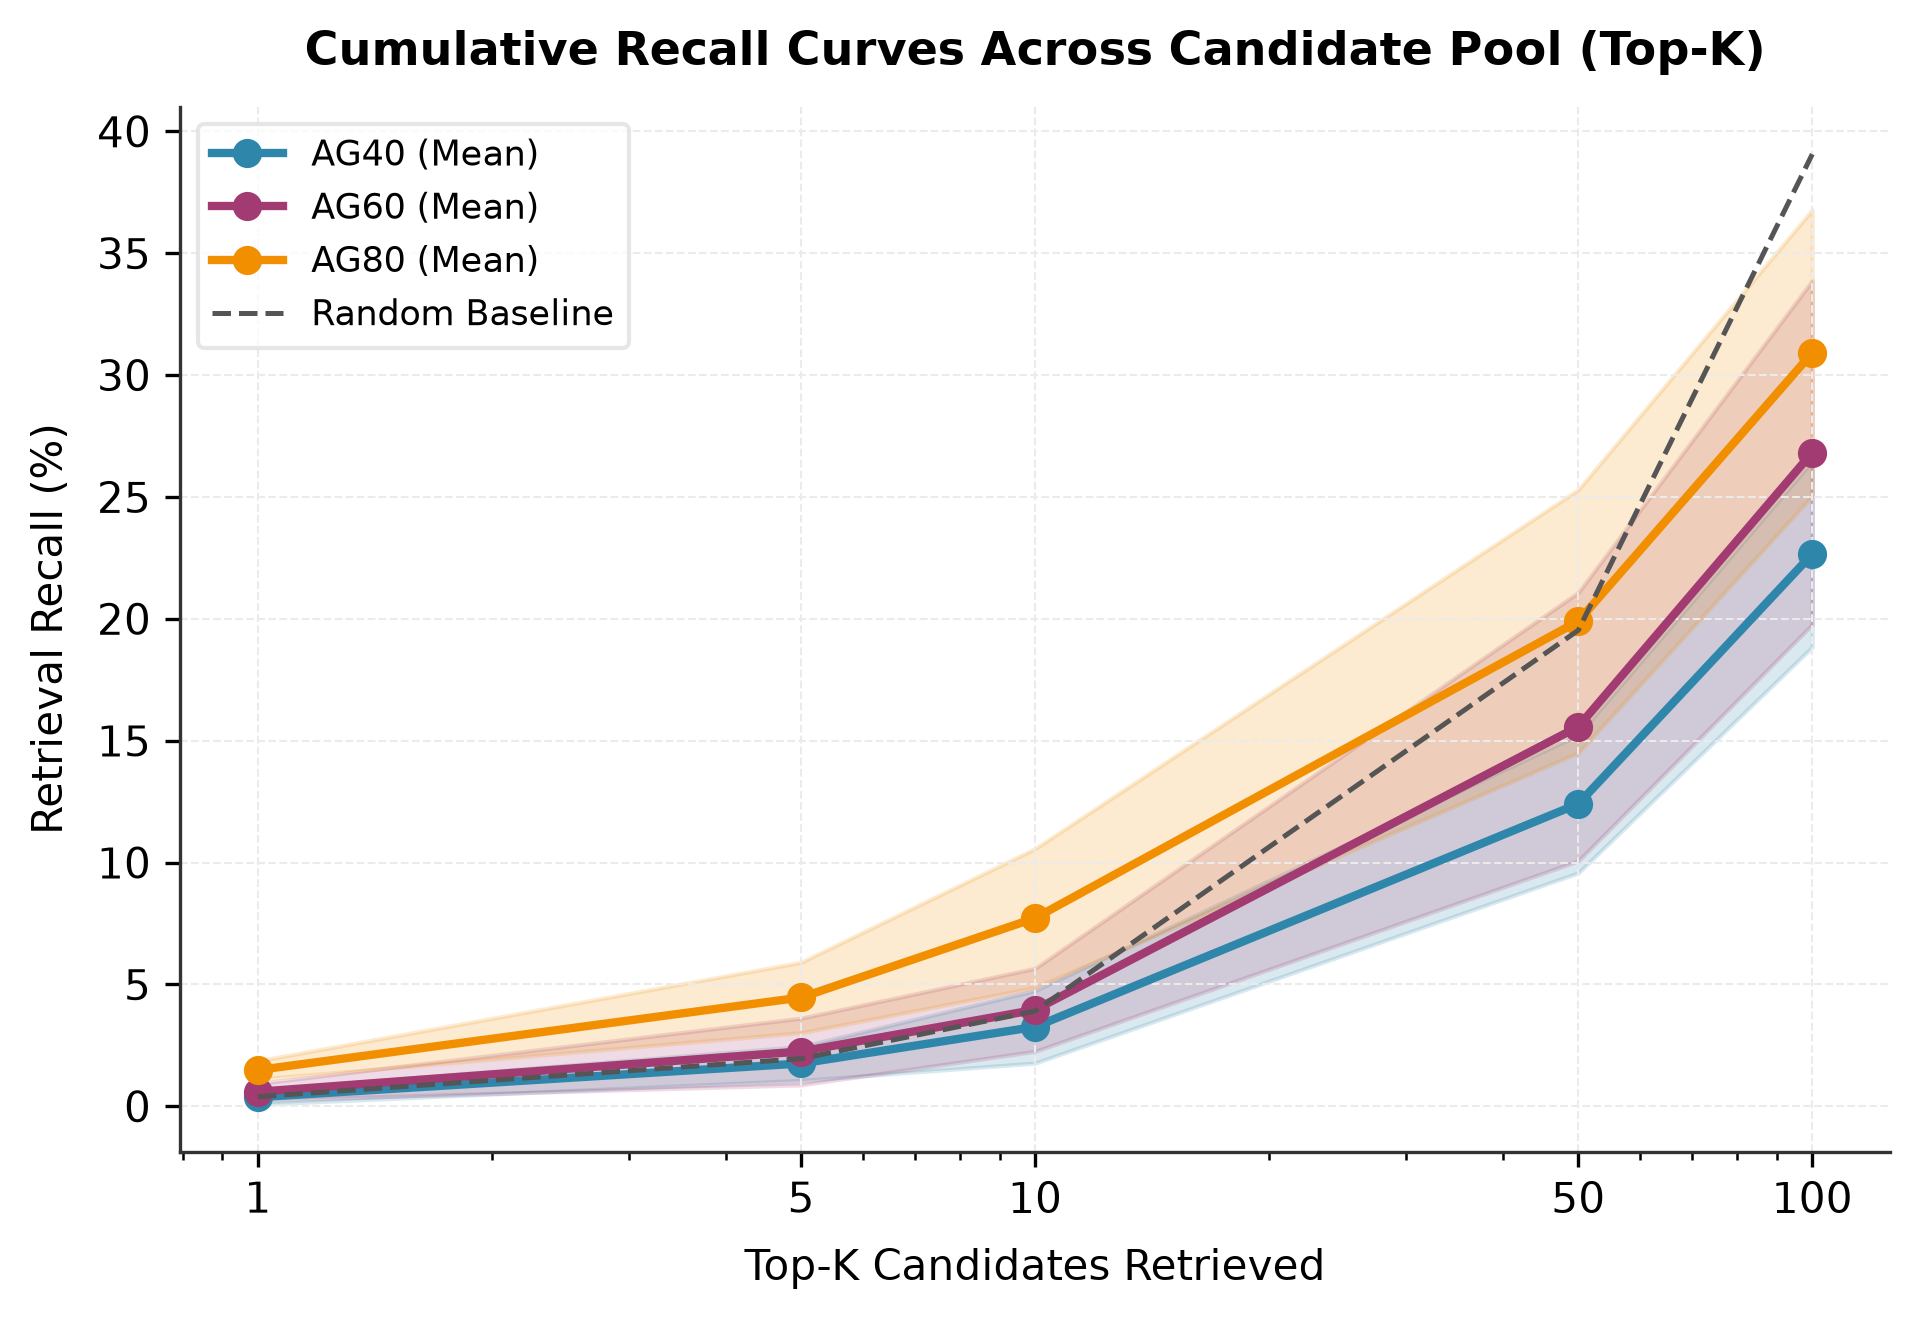
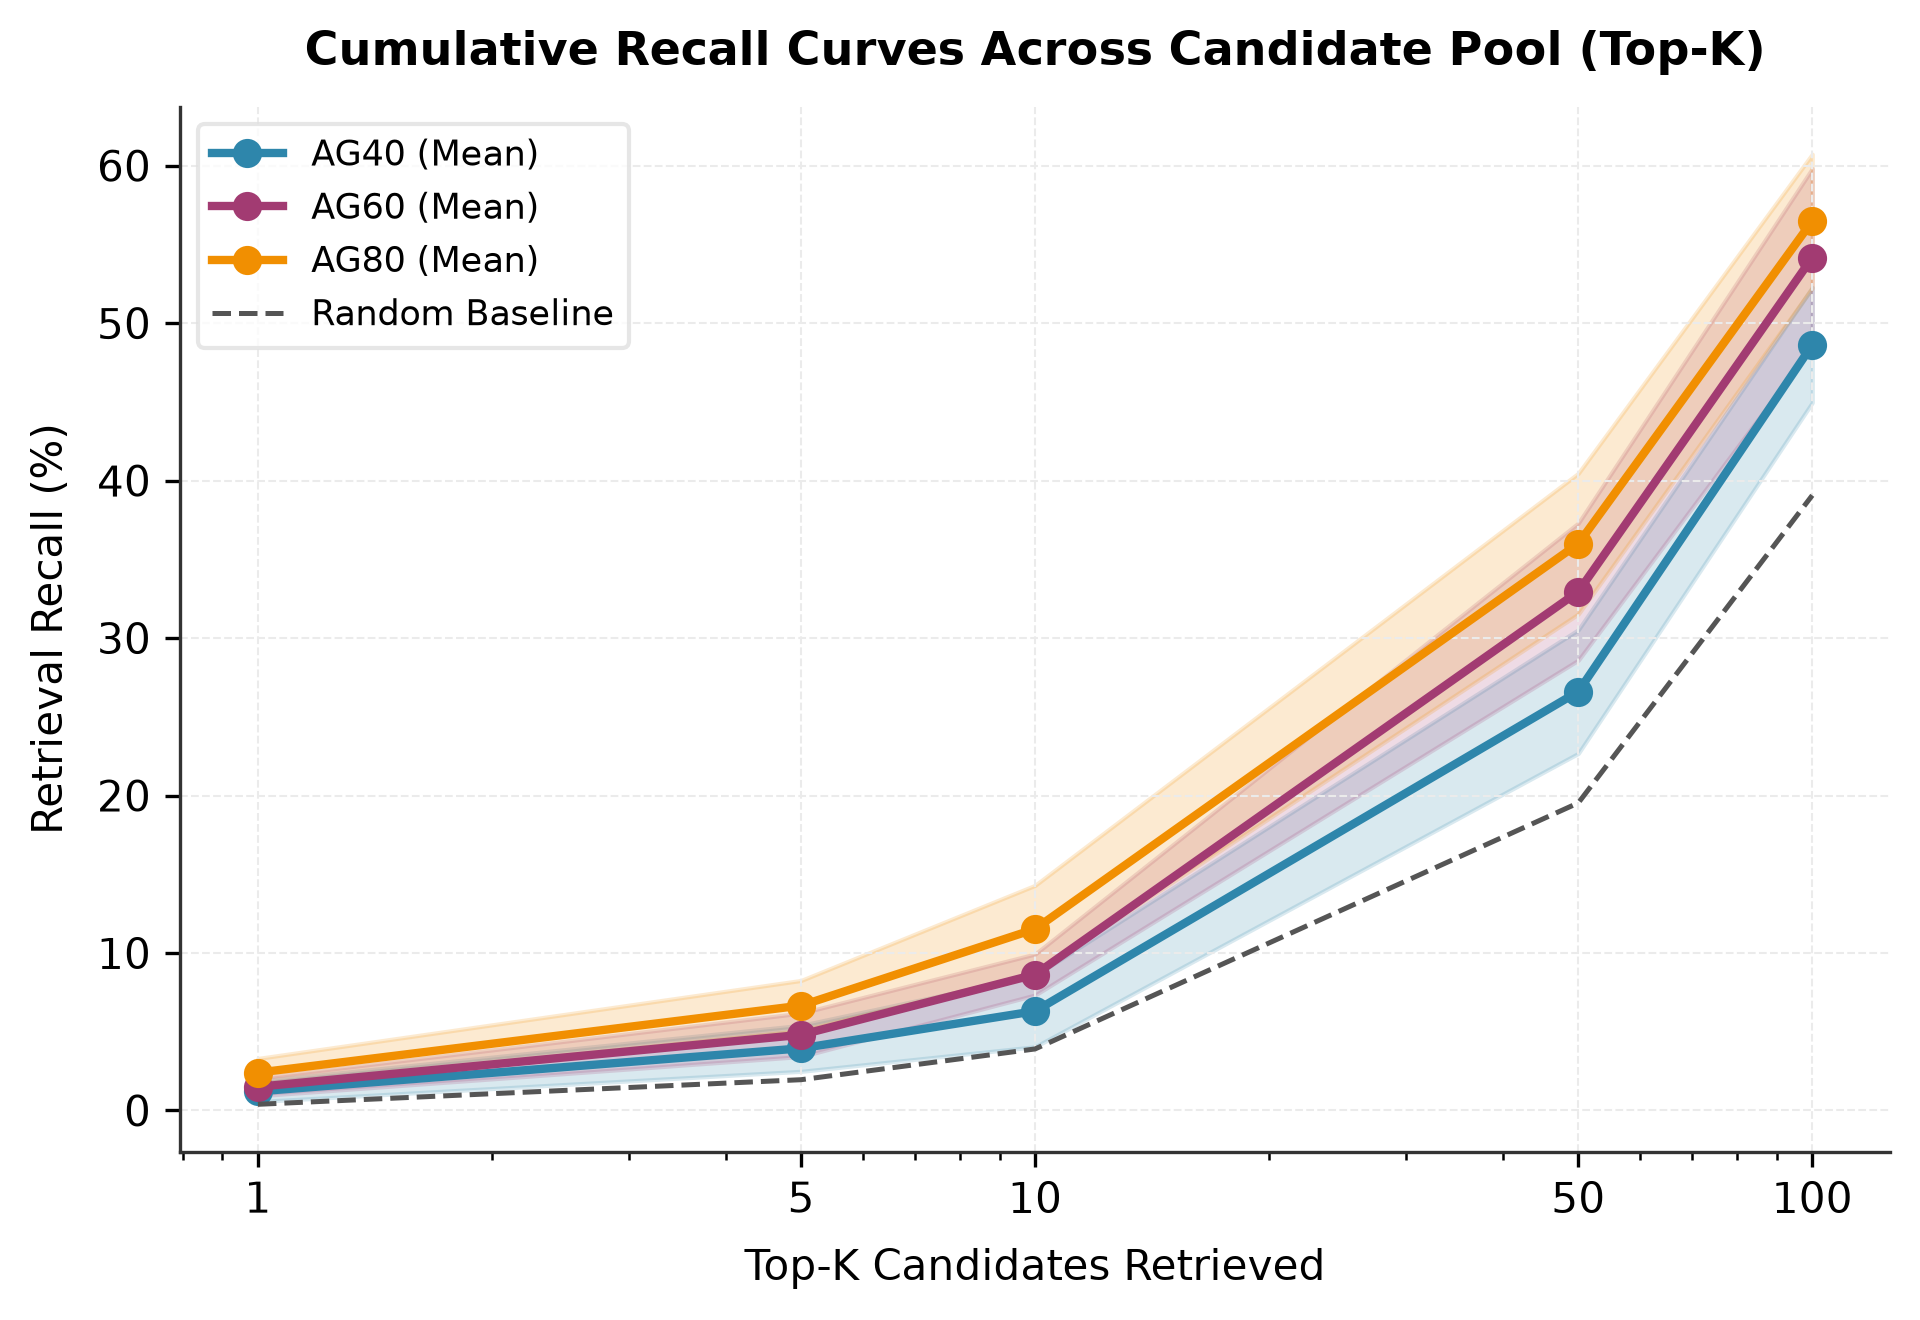
feat: support masked paratope-epitope dual control (Pa-Ep) alongside full-length Ab-Ag

diff --git a/scripts/train_kfold.py b/scripts/train_kfold.py
@@ -61,7 +61,8 @@ def evaluate_split_retrieval(
     model: BiEncoderScreening,
     loader: DataLoader,
     device: torch.device,
-    ks: Tuple[int, ...] = (1, 5, 10, 50, 100)
+    ks: Tuple[int, ...] = (1, 5, 10, 50, 100),
+    mask_mode: str = "none"
 ) -> Dict[str, Any]:
     """Evaluates Recall@K in both directions (Ab->Ag and Ag->Ab) and their mean."""
     model.eval()
@@ -74,15 +75,21 @@ def evaluate_split_retrieval(
             ab_feat = batch["antibody_feat"].to(device, non_blocking=True)
             ag_mask = batch["antigen_mask"].to(device, non_blocking=True)
             ab_mask = batch["antibody_mask"].to(device, non_blocking=True)
-            cdr_mask = batch["cdr_mask"].to(device, non_blocking=True)
+
+            if mask_mode == "interface":
+                cdr_mask = batch["cdr_mask"].to(device, non_blocking=True)
+                epi_mask = batch["epi_mask"].to(device, non_blocking=True)
+            else:
+                cdr_mask = None
+                epi_mask = None
 
             if device.type == "cuda":
                 with torch.amp.autocast(device_type="cuda", dtype=torch.bfloat16 if torch.cuda.is_bf16_supported() else torch.float16):
-                    v_ag = model.encode_antigen(ag_feat, ag_mask)
-                    u_ab = model.encode_antibody(ab_feat, ab_mask, cdr_mask)
+                    v_ag = model.encode_antigen(ag_feat, ag_mask, epi_mask=epi_mask)
+                    u_ab = model.encode_antibody(ab_feat, ab_mask, cdr_mask=cdr_mask)
             else:
-                v_ag = model.encode_antigen(ag_feat, ag_mask)
-                u_ab = model.encode_antibody(ab_feat, ab_mask, cdr_mask)
+                v_ag = model.encode_antigen(ag_feat, ag_mask, epi_mask=epi_mask)
+                u_ab = model.encode_antibody(ab_feat, ab_mask, cdr_mask=cdr_mask)
 
             all_ab_emb.append(u_ab.cpu().float())
             all_ag_emb.append(v_ag.cpu().float())
@@ -136,7 +143,8 @@ def extract_split_embeddings(
     model: BiEncoderScreening,
     dataset: BiomoleculePairDataset,
     indices: List[int],
-    device: torch.device
+    device: torch.device,
+    mask_mode: str = "none"
 ) -> Dict[str, torch.Tensor]:
     """Extracts antibody and antigen embeddings and labels for a specific split."""
     model.eval()
@@ -158,15 +166,21 @@ def extract_split_embeddings(
             ab_feat = batch["antibody_feat"].to(device, non_blocking=True)
             ag_mask = batch["antigen_mask"].to(device, non_blocking=True)
             ab_mask = batch["antibody_mask"].to(device, non_blocking=True)
-            cdr_mask = batch["cdr_mask"].to(device, non_blocking=True)
+
+            if mask_mode == "interface":
+                cdr_mask = batch["cdr_mask"].to(device, non_blocking=True)
+                epi_mask = batch["epi_mask"].to(device, non_blocking=True)
+            else:
+                cdr_mask = None
+                epi_mask = None
 
             if device.type == "cuda":
                 with torch.amp.autocast(device_type="cuda", dtype=torch.bfloat16 if torch.cuda.is_bf16_supported() else torch.float16):
-                    v_ag = model.encode_antigen(ag_feat, ag_mask)
-                    u_ab = model.encode_antibody(ab_feat, ab_mask, cdr_mask)
+                    v_ag = model.encode_antigen(ag_feat, ag_mask, epi_mask=epi_mask)
+                    u_ab = model.encode_antibody(ab_feat, ab_mask, cdr_mask=cdr_mask)
             else:
-                v_ag = model.encode_antigen(ag_feat, ag_mask)
-                u_ab = model.encode_antibody(ab_feat, ab_mask, cdr_mask)
+                v_ag = model.encode_antigen(ag_feat, ag_mask, epi_mask=epi_mask)
+                u_ab = model.encode_antibody(ab_feat, ab_mask, cdr_mask=cdr_mask)
 
             all_ab_emb.append(u_ab.cpu().float())
             all_ag_emb.append(v_ag.cpu().float())
@@ -230,7 +244,8 @@ def train_single_fold(
     fold_save_dir: Path,
     ks: Tuple[int, ...] = (1, 5, 10, 50, 100),
     pool_size: int = 256,
-    test_pairs_per_fold: int = 512
+    test_pairs_per_fold: int = 512,
+    mask_mode: str = "none"
 ) -> Dict[str, Any]:
     """Trains a single fold and returns validation/test performance."""
     print("\n" + "=" * 70)
@@ -289,12 +304,18 @@ def train_single_fold(
             ab_feat = batch["antibody_feat"].to(device, non_blocking=True)
             ag_mask = batch["antigen_mask"].to(device, non_blocking=True)
             ab_mask = batch["antibody_mask"].to(device, non_blocking=True)
-            cdr_mask = batch["cdr_mask"].to(device, non_blocking=True)
             ab_lbl = batch["antibody_label"].to(device, non_blocking=True)
             ag_lbl = batch["antigen_label"].to(device, non_blocking=True)
 
+            if mask_mode == "interface":
+                cdr_mask = batch["cdr_mask"].to(device, non_blocking=True)
+                epi_mask = batch["epi_mask"].to(device, non_blocking=True)
+            else:
+                cdr_mask = None
+                epi_mask = None
+
             with torch.amp.autocast(device_type=device.type, dtype=torch.bfloat16 if (device.type == "cuda" and torch.cuda.is_bf16_supported()) else torch.float16):
-                out = model(ag_feat, ab_feat, ag_mask, ab_mask, cdr_mask)
+                out = model(ag_feat, ab_feat, ag_mask, ab_mask, cdr_mask=cdr_mask, epi_mask=epi_mask)
                 loss = criterion(out["affinity_matrix"], ab_lbl, ag_lbl)
 
             scaler.scale(loss).backward()
@@ -310,7 +331,7 @@ def train_single_fold(
         avg_loss = total_loss / max(1, steps)
 
         # Quick validation
-        val_res = evaluate_split_retrieval(model, val_loader, device, ks=(10,))
+        val_res = evaluate_split_retrieval(model, val_loader, device, ks=(10,), mask_mode=mask_mode)
         val_r10 = val_res["mean"][10]
 
         if val_r10 > best_val_score:
@@ -335,10 +356,10 @@ def train_single_fold(
     model.load_state_dict(best_data["model_state"])
 
     # 1. Full test split evaluation (N ~ 672 candidates)
-    test_full_res = evaluate_split_retrieval(model, test_loader, device, ks=ks)
+    test_full_res = evaluate_split_retrieval(model, test_loader, device, ks=ks, mask_mode=mask_mode)
 
     # 2. Fixed pool evaluation (K = 256 candidates, strictly aligned with CALM protocol)
-    test_embs = extract_split_embeddings(model, full_dataset, split_indices.test, device)
+    test_embs = extract_split_embeddings(model, full_dataset, split_indices.test, device, mask_mode=mask_mode)
     pools = build_evaluation_pools(
         range(len(split_indices.test)),
         pool_size=pool_size,
@@ -378,6 +399,7 @@ def run_kfold_experiment(
     exp_name = raw_cfg.get("name", "ag40")
     label = raw_cfg.get("label", f"Cluster {exp_name}")
     min_seq_id = float(raw_cfg.get("min_seq_id", 0.4))
+    mask_mode = raw_cfg.get("mask_mode", raw_cfg.get("data", {}).get("mask_mode", "none"))
     
     model_cfg = BiEncoderConfig(**raw_cfg.get("model", {}))
     train_cfg = TrainingConfig(**raw_cfg.get("training", {}))
@@ -396,7 +418,7 @@ def run_kfold_experiment(
 
     print(f"==========================================================================")
     print(f"  BEACON 5-Fold Screening Experiment: {label} ({exp_name})")
-    print(f"  Device: {device} | Epochs per fold: {train_cfg.epochs} | Folds: {folds_count}")
+    print(f"  Device: {device} | Mask Mode: {mask_mode} | Epochs per fold: {train_cfg.epochs} | Folds: {folds_count}")
     print(f"==========================================================================")
 
     dataset_candidates = [
@@ -488,7 +510,8 @@ def run_kfold_experiment(
             run_dir,
             ks=ks,
             pool_size=pool_size,
-            test_pairs_per_fold=test_pairs_per_fold
+            test_pairs_per_fold=test_pairs_per_fold,
+            mask_mode=mask_mode
         )
         fold_outcomes.append(outcome)
 
@@ -534,6 +557,7 @@ def run_kfold_experiment(
         "experiment": exp_name,
         "label": label,
         "min_seq_id": min_seq_id,
+        "mask_mode": mask_mode,
         "clusters": len(set(clusters)),
         "cluster_backend": assignment.backend,
         "cluster_notes": assignment.notes,

diff --git a/beacon/models/bi_encoder.py b/beacon/models/bi_encoder.py
@@ -52,19 +52,18 @@ class SequenceTower(nn.Module):
     ) -> torch.Tensor:
         """
         features: [B, L, D_in]
-        mask: [B, L]
-        region_weight: [B, L] (optional CDR bias weights)
+        mask: [B, L] (padding mask, 1 for real residue, 0 for pad)
+        region_weight: [B, L] (optional interface mask: CDR/Paratope for Ab, Epitope for Ag)
         Returns: normalized embedding [B, D_out]
         """
         h = self.input_proj(features)
         for conv in self.convs:
             h = conv(h, mask)
             
-        # Optional: inject region weight (e.g. emphasize CDRs)
+        # Optional: inject region weight (e.g. emphasize CDRs or Epitopes)
         if region_weight is not None:
             effective_mask = mask.bool() & (region_weight > 0) if mask is not None else (region_weight > 0)
             if effective_mask.any():
-                # If region specified, pool primarily over region
                 pool_mask = effective_mask
             else:
                 pool_mask = mask
@@ -90,12 +89,13 @@ class BiEncoderScreening(nn.Module):
     """
     Stage 1: Asymmetric Bi-Encoder Screening Model.
     Designed for ultra-fast candidate retrieval and offline vector database indexing.
+    Supports both Full-length (Ab-Ag) and Masked Interface (Pa-Ep) pooling modes.
     """
     def __init__(self, config: BiEncoderConfig):
         super().__init__()
         self.config = config
         
-        # Antigen Tower (Global sequence representation)
+        # Antigen Tower (Global sequence representation or Epitope-focused)
         self.antigen_tower = SequenceTower(
             input_dim=config.antigen_dim,
             hidden_dim=config.hidden_dim,
@@ -106,7 +106,7 @@ class BiEncoderScreening(nn.Module):
             pooling_mode=config.antigen_pooling
         )
         
-        # Antibody Tower (CDR-focused sequence representation)
+        # Antibody Tower (CDR-focused or Full-length sequence representation)
         self.antibody_tower = SequenceTower(
             input_dim=config.antibody_dim,
             hidden_dim=config.hidden_dim,
@@ -124,9 +124,14 @@ class BiEncoderScreening(nn.Module):
         else:
             self.register_buffer("logit_scale", torch.tensor(initial_logit_scale))
 
-    def encode_antigen(self, antigen_feat: torch.Tensor, antigen_mask: Optional[torch.Tensor] = None) -> torch.Tensor:
+    def encode_antigen(
+        self,
+        antigen_feat: torch.Tensor,
+        antigen_mask: Optional[torch.Tensor] = None,
+        epi_mask: Optional[torch.Tensor] = None
+    ) -> torch.Tensor:
         """Encodes antigen sequence into a compact vector for offline library caching."""
-        return self.antigen_tower(antigen_feat, mask=antigen_mask)
+        return self.antigen_tower(antigen_feat, mask=antigen_mask, region_weight=epi_mask)
 
     def encode_antibody(
         self,
@@ -143,13 +148,14 @@ class BiEncoderScreening(nn.Module):
         antibody_feat: torch.Tensor,
         antigen_mask: Optional[torch.Tensor] = None,
         antibody_mask: Optional[torch.Tensor] = None,
-        cdr_mask: Optional[torch.Tensor] = None
+        cdr_mask: Optional[torch.Tensor] = None,
+        epi_mask: Optional[torch.Tensor] = None
     ) -> Dict[str, torch.Tensor]:
         """
         Calculates symmetric pairwise cosine similarity between paired antibody and antigen batches.
         """
-        v_ag = self.encode_antigen(antigen_feat, antigen_mask)  # [B, D]
-        u_ab = self.encode_antibody(antibody_feat, antibody_mask, cdr_mask)  # [B, D]
+        v_ag = self.encode_antigen(antigen_feat, antigen_mask, epi_mask=epi_mask)  # [B, D]
+        u_ab = self.encode_antibody(antibody_feat, antibody_mask, cdr_mask=cdr_mask)  # [B, D]
         
         # Cosine similarity for true paired items
         paired_sim = (u_ab * v_ag).sum(dim=-1)  # [B]
@@ -165,4 +171,3 @@ class BiEncoderScreening(nn.Module):
             "antibody_embedding": u_ab,
             "logit_scale": logit_scale
         }
-

diff --git a/beacon/plots.py b/beacon/plots.py
@@ -311,7 +311,7 @@ def generate_publication_markdown_table(runs: Dict[str, Dict[str, Any]], ks: Tup
     sep = ["---"] * len(header)
     rows = [f"| {' | '.join(header)} |", f"| {' | '.join(sep)} |"]
 
-    for name in ("ag40", "ag60", "ag80"):
+    for name in ("ag40", "ag60", "ag80", "pa_ep40", "pa_ep60", "pa_ep80"):
         if name not in runs:
             continue
         r = runs[name]
@@ -333,3 +333,73 @@ def generate_publication_markdown_table(runs: Dict[str, Dict[str, Any]], ks: Tup
         rows.append(f"| {' | '.join(cells)} |")
 
     return "\n".join(rows) + "\n"
+
+
+def plot_full_vs_masked_comparison(
+    runs: Dict[str, Dict[str, Any]],
+    output_path: str | Path,
+    target_k: int = 10,
+    title: str = "Control Comparison: Full-Length Ab-Ag vs Masked Pa-Ep (Recall@10)"
+) -> Path:
+    """
+    Plots paired comparison between Full-Length (Ab-Ag) and Masked (Pa-Ep) controls
+    across 40%, 60%, 80% antigen sequence identity clusters.
+    """
+    out_path = Path(output_path)
+    out_path.parent.mkdir(parents=True, exist_ok=True)
+
+    splits = ["40", "60", "80"]
+    full_keys = ["ag40", "ag60", "ag80"]
+    masked_keys = ["pa_ep40", "pa_ep60", "pa_ep80"]
+
+    fig, ax = plt.subplots(figsize=(6.5, 4.2))
+    x = np.arange(len(splits))
+    width = 0.35
+
+    full_means, full_cis = [], []
+    masked_means, masked_cis = [], []
+
+    for fk, mk in zip(full_keys, masked_keys):
+        f_item = runs.get(fk, {}).get("summary", {}).get("mean", {}).get(str(target_k), {})
+        full_means.append(f_item.get("mean", 0.0) * 100.0)
+        full_cis.append(f_item.get("ci95", 0.0) * 100.0)
+
+        m_item = runs.get(mk, {}).get("summary", {}).get("mean", {}).get(str(target_k), {})
+        masked_means.append(m_item.get("mean", 0.0) * 100.0)
+        masked_cis.append(m_item.get("ci95", 0.0) * 100.0)
+
+    rects1 = ax.bar(
+        x - width/2, full_means, width, yerr=full_cis, capsize=3.5,
+        label="Full-Length (Ab-Ag)", color="#2E86AB", edgecolor="#222222", linewidth=0.8
+    )
+    rects2 = ax.bar(
+        x + width/2, masked_means, width, yerr=masked_cis, capsize=3.5,
+        label="Masked (Pa-Ep)", color="#F18F01", edgecolor="#222222", linewidth=0.8
+    )
+
+    for rect in rects1:
+        h = rect.get_height()
+        if h > 0:
+            ax.annotate(f"{h:.1f}%", xy=(rect.get_x() + rect.get_width()/2, h),
+                        xytext=(0, 3), textcoords="offset points", ha="center", va="bottom", fontsize=8)
+
+    for rect in rects2:
+        h = rect.get_height()
+        if h > 0:
+            ax.annotate(f"{h:.1f}%", xy=(rect.get_x() + rect.get_width()/2, h),
+                        xytext=(0, 3), textcoords="offset points", ha="center", va="bottom", fontsize=8, fontweight="bold")
+
+    ax.set_ylabel(f"Recall@{target_k} (%)", fontsize=10)
+    ax.set_title(title, fontsize=11, fontweight="bold", pad=8)
+    ax.set_xticks(x)
+    ax.set_xticklabels([f"{s}% Identity" for s in splits], fontsize=9.5)
+    ax.legend(frameon=False, fontsize=9)
+    ax.grid(axis="y", zorder=1)
+    ax.spines["top"].set_visible(False)
+    ax.spines["right"].set_visible(False)
+
+    plt.tight_layout()
+    plt.savefig(out_path, bbox_inches="tight")
+    plt.close(fig)
+    print(f"[+] Saved Full vs Masked Comparison to: {out_path}")
+    return out_path

diff --git a/scripts/plot_benchmarks.py b/scripts/plot_benchmarks.py
@@ -21,6 +21,7 @@ from beacon.plots import (
     plot_recall_bars,
     plot_recall_curves,
     plot_calm_vs_aalite_comparison,
+    plot_full_vs_masked_comparison,
     generate_publication_markdown_table
 )
 
@@ -90,7 +91,16 @@ def main():
             title="Model Architecture Impact: BEACON vs CALM Baseline (Recall@10)"
         )
 
-    # 4. Generate Markdown & CSV Tables
+    # 4. Figure 4: Dual Control Comparison: Full-Length Ab-Ag vs Masked Pa-Ep
+    fig4_path = out_dir / "figure_ab_ag_vs_pa_ep.png"
+    plot_full_vs_masked_comparison(
+        runs=effective_runs,
+        output_path=fig4_path,
+        target_k=10,
+        title="Control Comparison: Full-Length Ab-Ag vs Masked Pa-Ep (Recall@10)"
+    )
+
+    # 5. Generate Markdown & CSV Tables
     table_md = generate_publication_markdown_table(effective_runs, ks=(1, 5, 10, 50, 100))
     table_path = out_dir / "tables.md"
     table_path.write_text(table_md, encoding="utf-8")

diff --git a/artifacts/report/tables.md b/artifacts/report/tables.md
@@ -1,5 +1,5 @@
 | Split | Setting | Folds | Recall@1 (Mean±CI) | Recall@5 (Mean±CI) | Recall@10 (Mean±CI) | Recall@50 (Mean±CI) | Recall@100 (Mean±CI) | Best Fold Recall@10 |
 | --- | --- | --- | --- | --- | --- | --- | --- | --- |
-| AG40 | Ab-Ag 40% Cluster Disjoint | 5-Fold |  0.37 ± 0.29% |  1.76 ± 0.70% |  3.26 ± 1.49% | 12.41 ± 2.83% | 22.66 ± 3.81% | 5.28% (Fold 2) |
-| AG60 | Ab-Ag 60% Cluster Disjoint | 5-Fold |  0.60 ± 0.34% |  2.25 ± 1.37% |  3.96 ± 1.70% | 15.58 ± 5.51% | 26.82 ± 7.05% | 5.73% (Fold 3) |
-| AG80 | Ab-Ag 80% Cluster Disjoint | 5-Fold |  1.49 ± 0.38% |  4.46 ± 1.45% |  7.72 ± 2.85% | 19.90 ± 5.39% | 30.91 ± 5.87% | 10.94% (Fold 4) |
+| AG40 | Ab-Ag 40% Cluster Disjoint | 5-Fold |  1.21 ± 0.64% |  3.95 ± 1.46% |  6.31 ± 2.26% | 26.60 ± 3.93% | 48.61 ± 3.66% | 8.30% (Fold 4) |
+| AG60 | Ab-Ag 60% Cluster Disjoint | 5-Fold |  1.50 ± 0.57% |  4.80 ± 1.38% |  8.63 ± 1.30% | 32.95 ± 4.35% | 54.16 ± 5.65% | 9.77% (Fold 0) |
+| AG80 | Ab-Ag 80% Cluster Disjoint | 5-Fold |  2.40 ± 0.90% |  6.66 ± 1.60% | 11.52 ± 2.78% | 36.00 ± 4.47% | 56.48 ± 4.24% | 14.06% (Fold 4) |
